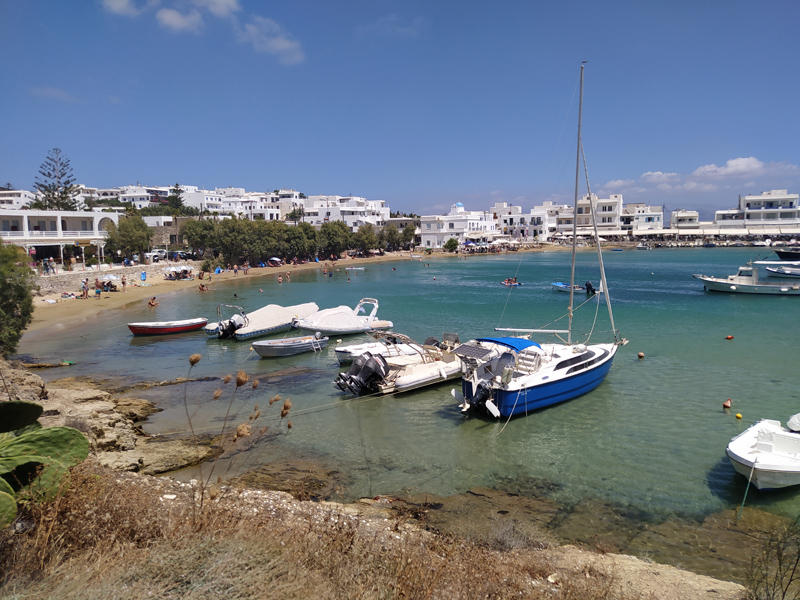
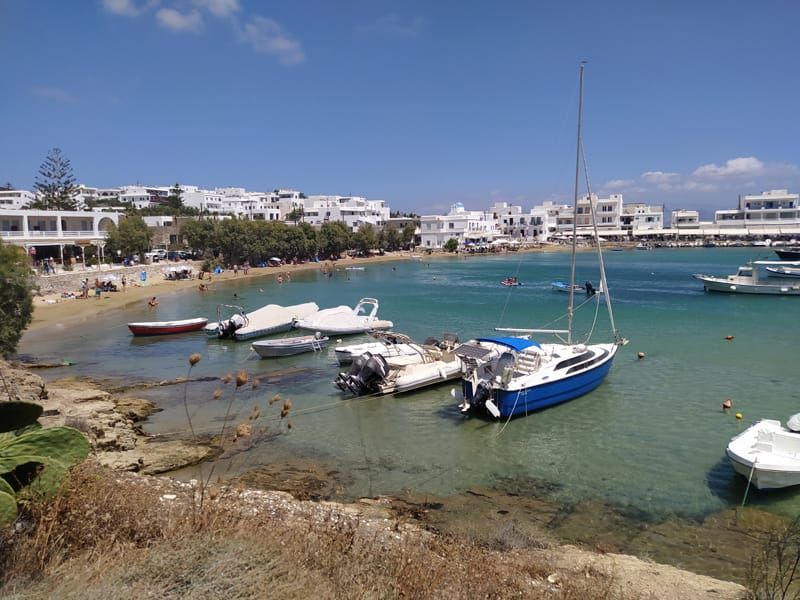
Staging build for www.hotelcorali.gr/new26 (base path, noindex) and lighter source photos
- npm run build:new26 → dist-new26/ + corali-new26.zip, all URLs under /new26/, noindex, no sitemap/robots
- Paths for favicon/manifest/language links are base-aware
- Source photos resized to max 1920px (mozjpeg q80); JPG fallback for every <picture>

Claude-Session: https://claude.ai/code/session_018e8KFo2sH4DgSjx2dt7Ztx

diff --git a/src/i18n/index.ts b/src/i18n/index.ts
@@ -22,5 +22,11 @@ export function t(lang: Lang): Dict {
 }
 
 export const localeOf = (code: Lang) => locales.find((l) => l.code === code)!;
-/** URL of the home page in a language: "/" for Greek, "/en/" etc. */
-export const homePath = (code: Lang) => (code === defaultLocale ? "/" : `/${code}/`);
+/** Site base ("/" live, "/new26/" for the staging copy), always with a trailing slash. */
+export const base = import.meta.env.BASE_URL.replace(/\/?$/, "/");
+/** A staging build (in a sub-folder) must not be indexed next to the live site. */
+export const staging = base !== "/";
+/** URL of the home page in a language: "/" for Greek, "/en/" etc. (prefixed with the base). */
+export const homePath = (code: Lang) => (code === defaultLocale ? base : `${base}${code}/`);
+/** Path of a file in public/, with the base. */
+export const asset = (file: string) => `${base}${file}`;
